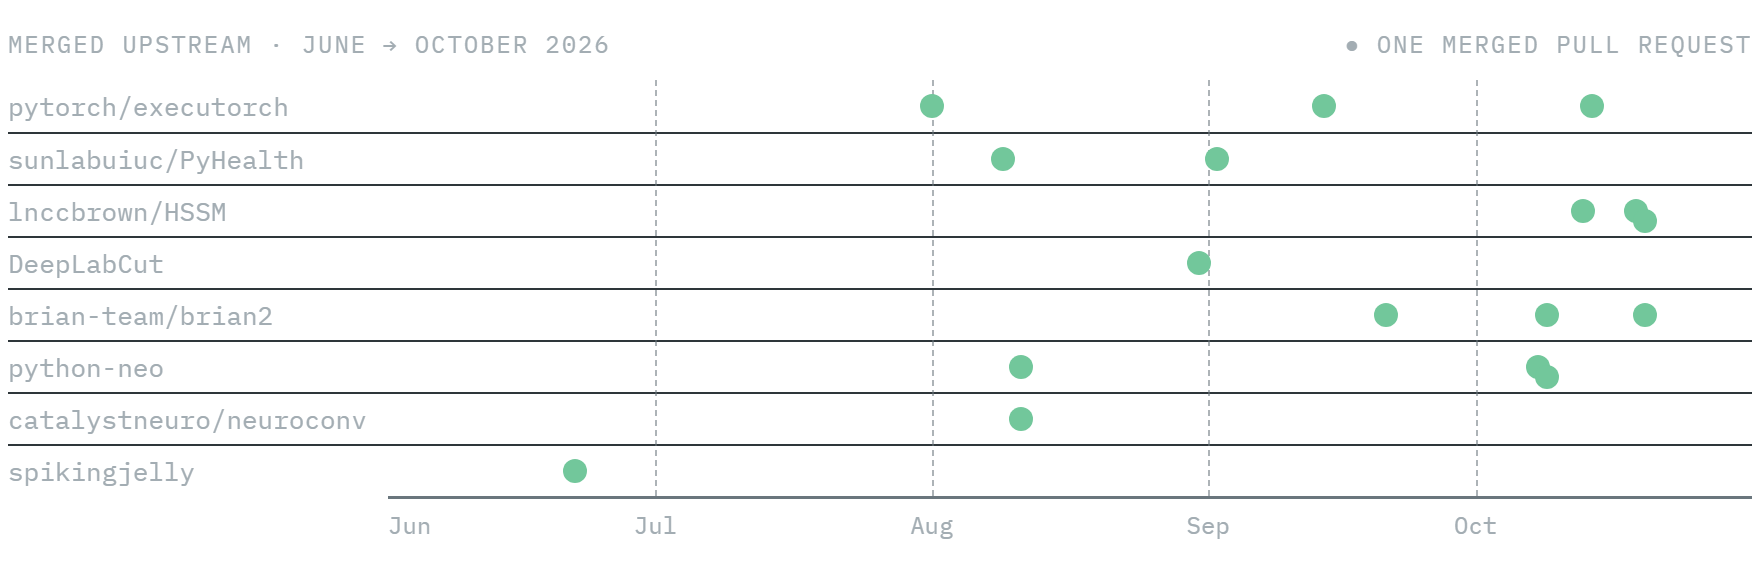
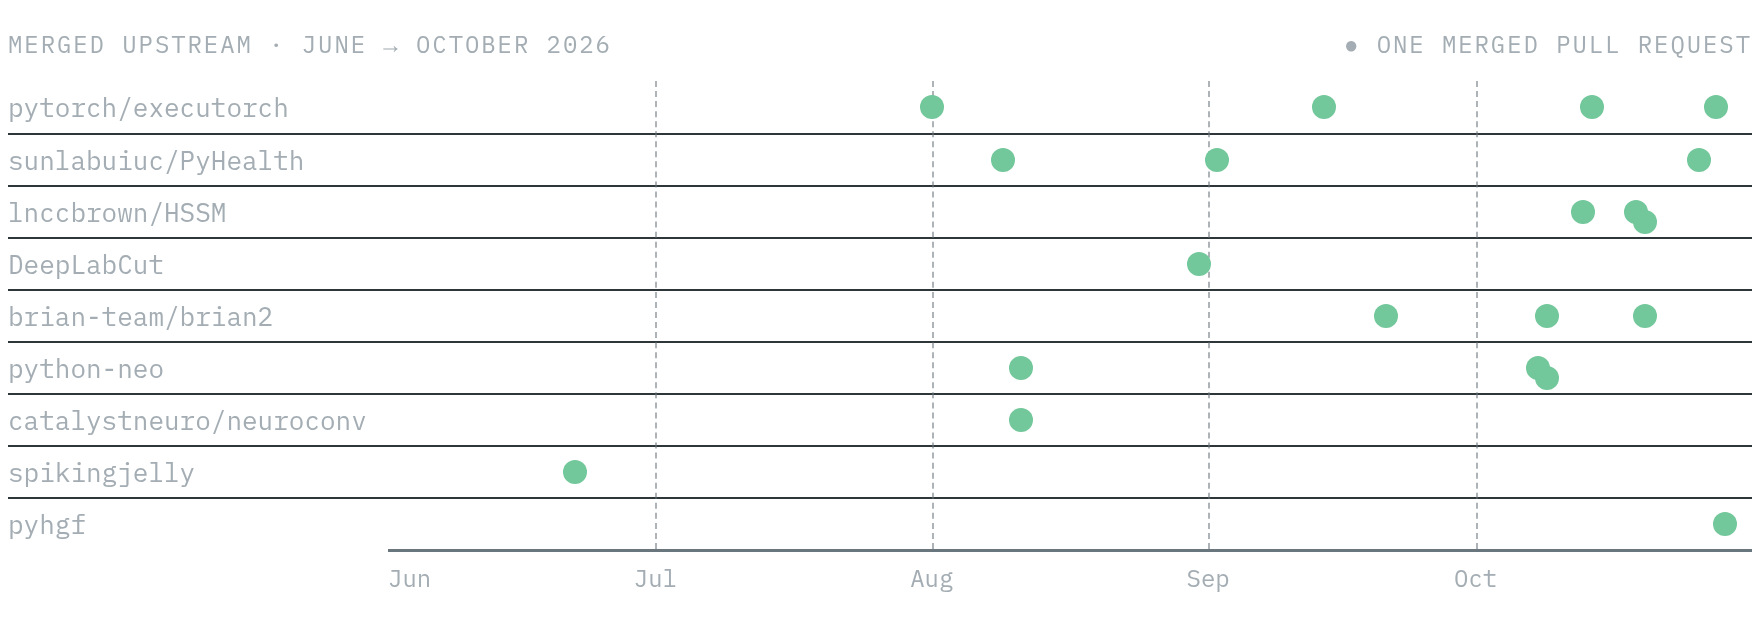
Mettre à jour le profil depuis l'état GitHub

diff --git a/portfolio/index.html b/portfolio/index.html
@@ -196,8 +196,8 @@ footer { margin-top: 48px; padding-top: 18px; border-top: 1px solid var(--rule);
         <span class="where">France (CET) · remote · EN / FR</span>
       </div>
       <div class="facts">
-        <div class="fact"><div class="n"><!--merged-count:start-->17<!--merged-count:end--></div><div class="l">merged pull requests, <!--range-en-dash:start-->June–October 2026<!--range-en-dash:end--></div></div>
-        <div class="fact"><div class="n"><!--project-count:start-->8<!--project-count:end--></div><div class="l">projects with a merged pull request (Meta, UIUC, Brown, EPFL…)</div></div>
+        <div class="fact"><div class="n"><!--merged-count:start-->20<!--merged-count:end--></div><div class="l">merged pull requests, <!--range-en-dash:start-->June–October 2026<!--range-en-dash:end--></div></div>
+        <div class="fact"><div class="n"><!--project-count:start-->9<!--project-count:end--></div><div class="l">projects with a merged pull request (Meta, UIUC, Brown, EPFL…)</div></div>
         <div class="fact"><div class="n">14</div><div class="l">issues filed; 4 with explicit maintainer agreement</div></div>
         <div class="fact"><div class="n">344</div><div class="l">tests in discoursekit, mypy and ruff clean</div></div>
       </div>
@@ -213,7 +213,7 @@ footer { margin-top: 48px; padding-top: 18px; border-top: 1px solid var(--rule);
     <h2 id="en-where">Where I contribute</h2>
     <p class="section-intro">One card per project, newest merge first. Each line links to the pull request, where the review and the maintainers' words are.</p>
     <div class="projects" data-projects="en"></div>
-    <p class="note"><!--open-en:start-->Open and under review: brian2 #1891, ComputationalPsychiatry/pyhgf #448, executorch #23798 (approved), HSSM #1414, huggingface/course #1328, PyHealth #1187, #1202, #1207, python-neo #1913.<!--open-en:end--> Filed: pytorch/pytorch #200949 (<code>grid_sample</code> int16 offset overflow for fp16/bf16, labelled "correctness (silent)"), PCNtoolkit #600, pyhgf #446/#447.</p>
+    <p class="note"><!--open-en:start-->Open and under review: brian2 #1891, HSSM #1414 (approved), huggingface/course #1328, PyHealth #1202, #1207, python-neo #1913.<!--open-en:end--> Filed: pytorch/pytorch #200949 (<code>grid_sample</code> int16 offset overflow for fp16/bf16, labelled "correctness (silent)"), PCNtoolkit #600, pyhgf #446/#447.</p>
 
     <h2 id="en-cases">Contribution stories</h2>
     <p class="section-intro">Six of these contributions told in full, each the same way: what was wrong, what I did, why it was hard, what came out. Links go to the public record.</p>
@@ -381,8 +381,8 @@ footer { margin-top: 48px; padding-top: 18px; border-top: 1px solid var(--rule);
         <span class="where">France · à distance · FR / EN</span>
       </div>
       <div class="facts">
-        <div class="fact"><div class="n"><!--merged-count:start-->17<!--merged-count:end--></div><div class="l">pull requests fusionnées, <!--range-fr-dash:start-->juin–octobre 2026<!--range-fr-dash:end--></div></div>
-        <div class="fact"><div class="n"><!--project-count:start-->8<!--project-count:end--></div><div class="l">projets avec une pull request fusionnée (Meta, UIUC, Brown, EPFL…)</div></div>
+        <div class="fact"><div class="n"><!--merged-count:start-->20<!--merged-count:end--></div><div class="l">pull requests fusionnées, <!--range-fr-dash:start-->juin–octobre 2026<!--range-fr-dash:end--></div></div>
+        <div class="fact"><div class="n"><!--project-count:start-->9<!--project-count:end--></div><div class="l">projets avec une pull request fusionnée (Meta, UIUC, Brown, EPFL…)</div></div>
         <div class="fact"><div class="n">14</div><div class="l">issues ouvertes ; 4 avec accord explicite du mainteneur</div></div>
         <div class="fact"><div class="n">344</div><div class="l">tests dans discoursekit, mypy et ruff propres</div></div>
       </div>
@@ -398,7 +398,7 @@ footer { margin-top: 48px; padding-top: 18px; border-top: 1px solid var(--rule);
     <h2 id="fr-where">Où je contribue</h2>
     <p class="section-intro">Une carte par projet, la fusion la plus récente en premier. Chaque ligne mène à la pull request, où se trouvent la revue et les mots des mainteneurs.</p>
     <div class="projects" data-projects="fr"></div>
-    <p class="note"><!--open-fr:start-->En cours de revue : brian2 #1891, ComputationalPsychiatry/pyhgf #448, executorch #23798 (approuvée), HSSM #1414, huggingface/course #1328, PyHealth #1187, #1202, #1207, python-neo #1913.<!--open-fr:end--> Signalés : pytorch/pytorch #200949 (dépassement d'offset int16 dans <code>grid_sample</code> pour fp16/bf16, étiqueté « correctness (silent) »), PCNtoolkit #600, pyhgf #446/#447.</p>
+    <p class="note"><!--open-fr:start-->En cours de revue : brian2 #1891, HSSM #1414 (approuvée), huggingface/course #1328, PyHealth #1202, #1207, python-neo #1913.<!--open-fr:end--> Signalés : pytorch/pytorch #200949 (dépassement d'offset int16 dans <code>grid_sample</code> pour fp16/bf16, étiqueté « correctness (silent) »), PCNtoolkit #600, pyhgf #446/#447.</p>
 
     <h2 id="fr-cases">Contributions racontées</h2>
     <p class="section-intro">Six de ces contributions racontées en entier, toujours de la même façon : ce qui était faux, ce que j'ai fait, pourquoi c'était difficile, ce qui en est sorti. Les liens mènent au dossier public.</p>
@@ -527,7 +527,7 @@ footer { margin-top: 48px; padding-top: 18px; border-top: 1px solid var(--rule);
 
 <!-- Données générées par visuals/build.py à partir de visuals/data/merged.json et de silent-failures/registry/entries.js : ne pas éditer à la main. -->
 <!--data:start-->
-<script type="application/json" id="merged-data">{"lanes":[{"key":"executorch","label":"pytorch/executorch"},{"key":"pyhealth","label":"sunlabuiuc/PyHealth"},{"key":"hssm","label":"lnccbrown/HSSM"},{"key":"dlc","label":"DeepLabCut"},{"key":"brian2","label":"brian-team/brian2"},{"key":"neo","label":"python-neo"},{"key":"neuroconv","label":"catalystneuro/neuroconv"},{"key":"spikingjelly","label":"spikingjelly"}],"merged":[{"date":"2026-10-20","lane":"hssm","ref":"lnccbrown/HSSM #1415","url":"https://github.com/lnccbrown/HSSM/pull/1415","sf":[],"en":"follow-up to #1411: the test of the balanced-panel check now uses the stable sort it recommends","fr":"suite de #1411 : le test de la validation du panel utilise désormais le tri stable qu'elle recommande"},{"date":"2026-10-20","lane":"brian2","ref":"brian-team/brian2 #1896","url":"https://github.com/brian-team/brian2/pull/1896","sf":["SF-16"],"en":"Cython RNG buffers stored by value in the random state: restore() no longer reads freed memory after a refill; test","fr":"tampons RNG Cython stockés par valeur dans l'état aléatoire : restore() ne lit plus de mémoire libérée après un remplissage ; test"},{"date":"2026-10-19","lane":"hssm","ref":"lnccbrown/HSSM #1411","url":"https://github.com/lnccbrown/HSSM/pull/1411","sf":[],"en":"error message suggested an unstable sort that scrambles each participant's trial order; stable sort suggested, docstrings, tests","fr":"le message d'erreur suggérait un tri non stable qui mélange l'ordre des essais de chaque participant ; tri stable suggéré, docstrings, tests"},{"date":"2026-10-14","lane":"executorch","ref":"pytorch/executorch #22373","url":"https://github.com/pytorch/executorch/pull/22373","sf":["SF-05","SF-06"],"en":"four error guards that could never fire made to raise; tests","fr":"quatre gardes d'erreur qui ne pouvaient jamais se déclencher, rendues effectives ; tests"},{"date":"2026-10-13","lane":"hssm","ref":"lnccbrown/HSSM #1371","url":"https://github.com/lnccbrown/HSSM/pull/1371","sf":["SF-11"],"en":"parameter order permuted between libraries; test over 21 pairs","fr":"ordre des paramètres permuté entre bibliothèques ; test sur 21 paires"},{"date":"2026-10-09","lane":"brian2","ref":"brian-team/brian2 #1885","url":"https://github.com/brian-team/brian2/pull/1885","sf":[],"en":"developer guidelines refresh","fr":"mise à jour des consignes pour les développeurs"},{"date":"2026-10-09","lane":"neo","ref":"python-neo #1911","url":"https://github.com/NeuralEnsemble/python-neo/pull/1911","sf":[],"en":"CI matrix failing weekly since February","fr":"matrice CI en échec chaque semaine depuis février"},{"date":"2026-10-08","lane":"neo","ref":"python-neo #1912","url":"https://github.com/NeuralEnsemble/python-neo/pull/1912","sf":["SF-07"],"en":"CI step green on failure; pipefail + checks","fr":"étape de CI verte sur échec ; pipefail et contrôles"},{"date":"2026-09-21","lane":"brian2","ref":"brian-team/brian2 #1861","url":"https://github.com/brian-team/brian2/pull/1861","sf":[],"en":"conditional gc.collect() in Network.run(); regression test","fr":"gc.collect() conditionnel dans Network.run() ; test de régression"},{"date":"2026-09-14","lane":"executorch","ref":"pytorch/executorch #22372","url":"https://github.com/pytorch/executorch/pull/22372","sf":["SF-08"],"en":"Vulkan quantizer lifted ints as float32; fix + test","fr":"le quantificateur Vulkan promouvait des entiers en float32 ; correctif et test"},{"date":"2026-09-02","lane":"pyhealth","ref":"sunlabuiuc/PyHealth #1203","url":"https://github.com/sunlabuiuc/PyHealth/pull/1203","sf":["SF-02","SF-19","SF-20"],"en":"review + 2 hardening commits on an OMOP leakage fix","fr":"revue et 2 commits de durcissement sur un correctif de fuite OMOP"},{"date":"2026-08-31","lane":"dlc","ref":"DeepLabCut #3445","url":"https://github.com/DeepLabCut/DeepLabCut/pull/3445","sf":["SF-09"],"en":"pandas 3 Copy-on-Write: ten in-place mutations made safe","fr":"pandas 3 Copy-on-Write : dix mutations en place sécurisées"},{"date":"2026-08-11","lane":"neo","ref":"python-neo #1891","url":"https://github.com/NeuralEnsemble/python-neo/pull/1891","sf":[],"en":"CedRawIO vs sonpy ≥ 1.9.12; CED tests re-enabled","fr":"CedRawIO face à sonpy ≥ 1.9.12 ; tests CED réactivés"},{"date":"2026-08-11","lane":"neuroconv","ref":"catalystneuro/neuroconv #1855","url":"https://github.com/catalystneuro/neuroconv/pull/1855","sf":[],"en":"unsatisfiable PEP 508 marker on the spike2 extra","fr":"marqueur PEP 508 insatisfiable sur l'extra spike2"},{"date":"2026-08-09","lane":"pyhealth","ref":"sunlabuiuc/PyHealth #1179","url":"https://github.com/sunlabuiuc/PyHealth/pull/1179","sf":[],"en":"MEDS dataset support, typed Parquet path (+1,526 lines)","fr":"support du standard MEDS, chemin Parquet typé (+1 526 lignes)"},{"date":"2026-08-01","lane":"executorch","ref":"pytorch/executorch #20685","url":"https://github.com/pytorch/executorch/pull/20685","sf":[],"en":"runtime MoE expert-sort for the MLX backend","fr":"tri des experts MoE à l'exécution pour le backend MLX"},{"date":"2026-06-22","lane":"spikingjelly","ref":"spikingjelly #692","url":"https://github.com/fangwei123456/spikingjelly/pull/692","sf":[],"en":"dead assertion on a never-defined attribute","fr":"assertion morte sur un attribut jamais défini"}],"window":{"start":"2026-06","end":"2026-11","en":"June → October 2026","fr":"juin → octobre 2026"}}</script>
+<script type="application/json" id="merged-data">{"lanes":[{"key":"executorch","label":"pytorch/executorch"},{"key":"pyhealth","label":"sunlabuiuc/PyHealth"},{"key":"hssm","label":"lnccbrown/HSSM"},{"key":"dlc","label":"DeepLabCut"},{"key":"brian2","label":"brian-team/brian2"},{"key":"neo","label":"python-neo"},{"key":"neuroconv","label":"catalystneuro/neuroconv"},{"key":"spikingjelly","label":"spikingjelly"},{"key":"pyhgf","label":"pyhgf"}],"merged":[{"date":"2026-10-29","lane":"pyhgf","ref":"ComputationalPsychiatry/pyhgf #448","url":"https://github.com/ComputationalPsychiatry/pyhgf/pull/448","sf":[],"en":"Use all volatility and value children in the unbounded volatility update","fr":"Use all volatility and value children in the unbounded volatility update","auto":true},{"date":"2026-10-28","lane":"executorch","ref":"pytorch/executorch #23798","url":"https://github.com/pytorch/executorch/pull/23798","sf":[],"en":"[muse-glimmer] Fix bf16 positional embedding interpolation on CPU","fr":"[muse-glimmer] Fix bf16 positional embedding interpolation on CPU","auto":true},{"date":"2026-10-26","lane":"pyhealth","ref":"sunlabuiuc/PyHealth #1187","url":"https://github.com/sunlabuiuc/PyHealth/pull/1187","sf":[],"en":"Add PTB-XL dataset support (ECG)","fr":"Add PTB-XL dataset support (ECG)","auto":true},{"date":"2026-10-20","lane":"hssm","ref":"lnccbrown/HSSM #1415","url":"https://github.com/lnccbrown/HSSM/pull/1415","sf":[],"en":"follow-up to #1411: the test of the balanced-panel check now uses the stable sort it recommends","fr":"suite de #1411 : le test de la validation du panel utilise désormais le tri stable qu'elle recommande"},{"date":"2026-10-20","lane":"brian2","ref":"brian-team/brian2 #1896","url":"https://github.com/brian-team/brian2/pull/1896","sf":["SF-16"],"en":"Cython RNG buffers stored by value in the random state: restore() no longer reads freed memory after a refill; test","fr":"tampons RNG Cython stockés par valeur dans l'état aléatoire : restore() ne lit plus de mémoire libérée après un remplissage ; test"},{"date":"2026-10-19","lane":"hssm","ref":"lnccbrown/HSSM #1411","url":"https://github.com/lnccbrown/HSSM/pull/1411","sf":[],"en":"error message suggested an unstable sort that scrambles each participant's trial order; stable sort suggested, docstrings, tests","fr":"le message d'erreur suggérait un tri non stable qui mélange l'ordre des essais de chaque participant ; tri stable suggéré, docstrings, tests"},{"date":"2026-10-14","lane":"executorch","ref":"pytorch/executorch #22373","url":"https://github.com/pytorch/executorch/pull/22373","sf":["SF-05","SF-06"],"en":"four error guards that could never fire made to raise; tests","fr":"quatre gardes d'erreur qui ne pouvaient jamais se déclencher, rendues effectives ; tests"},{"date":"2026-10-13","lane":"hssm","ref":"lnccbrown/HSSM #1371","url":"https://github.com/lnccbrown/HSSM/pull/1371","sf":["SF-11"],"en":"parameter order permuted between libraries; test over 21 pairs","fr":"ordre des paramètres permuté entre bibliothèques ; test sur 21 paires"},{"date":"2026-10-09","lane":"brian2","ref":"brian-team/brian2 #1885","url":"https://github.com/brian-team/brian2/pull/1885","sf":[],"en":"developer guidelines refresh","fr":"mise à jour des consignes pour les développeurs"},{"date":"2026-10-09","lane":"neo","ref":"python-neo #1911","url":"https://github.com/NeuralEnsemble/python-neo/pull/1911","sf":[],"en":"CI matrix failing weekly since February","fr":"matrice CI en échec chaque semaine depuis février"},{"date":"2026-10-08","lane":"neo","ref":"python-neo #1912","url":"https://github.com/NeuralEnsemble/python-neo/pull/1912","sf":["SF-07"],"en":"CI step green on failure; pipefail + checks","fr":"étape de CI verte sur échec ; pipefail et contrôles"},{"date":"2026-09-21","lane":"brian2","ref":"brian-team/brian2 #1861","url":"https://github.com/brian-team/brian2/pull/1861","sf":[],"en":"conditional gc.collect() in Network.run(); regression test","fr":"gc.collect() conditionnel dans Network.run() ; test de régression"},{"date":"2026-09-14","lane":"executorch","ref":"pytorch/executorch #22372","url":"https://github.com/pytorch/executorch/pull/22372","sf":["SF-08"],"en":"Vulkan quantizer lifted ints as float32; fix + test","fr":"le quantificateur Vulkan promouvait des entiers en float32 ; correctif et test"},{"date":"2026-09-02","lane":"pyhealth","ref":"sunlabuiuc/PyHealth #1203","url":"https://github.com/sunlabuiuc/PyHealth/pull/1203","sf":["SF-02","SF-19","SF-20"],"en":"review + 2 hardening commits on an OMOP leakage fix","fr":"revue et 2 commits de durcissement sur un correctif de fuite OMOP"},{"date":"2026-08-31","lane":"dlc","ref":"DeepLabCut #3445","url":"https://github.com/DeepLabCut/DeepLabCut/pull/3445","sf":["SF-09"],"en":"pandas 3 Copy-on-Write: ten in-place mutations made safe","fr":"pandas 3 Copy-on-Write : dix mutations en place sécurisées"},{"date":"2026-08-11","lane":"neo","ref":"python-neo #1891","url":"https://github.com/NeuralEnsemble/python-neo/pull/1891","sf":[],"en":"CedRawIO vs sonpy ≥ 1.9.12; CED tests re-enabled","fr":"CedRawIO face à sonpy ≥ 1.9.12 ; tests CED réactivés"},{"date":"2026-08-11","lane":"neuroconv","ref":"catalystneuro/neuroconv #1855","url":"https://github.com/catalystneuro/neuroconv/pull/1855","sf":[],"en":"unsatisfiable PEP 508 marker on the spike2 extra","fr":"marqueur PEP 508 insatisfiable sur l'extra spike2"},{"date":"2026-08-09","lane":"pyhealth","ref":"sunlabuiuc/PyHealth #1179","url":"https://github.com/sunlabuiuc/PyHealth/pull/1179","sf":[],"en":"MEDS dataset support, typed Parquet path (+1,526 lines)","fr":"support du standard MEDS, chemin Parquet typé (+1 526 lignes)"},{"date":"2026-08-01","lane":"executorch","ref":"pytorch/executorch #20685","url":"https://github.com/pytorch/executorch/pull/20685","sf":[],"en":"runtime MoE expert-sort for the MLX backend","fr":"tri des experts MoE à l'exécution pour le backend MLX"},{"date":"2026-06-22","lane":"spikingjelly","ref":"spikingjelly #692","url":"https://github.com/fangwei123456/spikingjelly/pull/692","sf":[],"en":"dead assertion on a never-defined attribute","fr":"assertion morte sur un attribut jamais défini"}],"window":{"start":"2026-06","end":"2026-11","en":"June → October 2026","fr":"juin → octobre 2026"}}</script>
 <script type="application/json" id="registry-data">[{"id":"SF-01","family":"data","detect":"heuristic","en":"Grouped-entity leakage across splits","fr":"Fuite d'entité groupée entre splits"},{"id":"SF-02","family":"data","detect":"manual","en":"Target information inside the features","fr":"Information de la cible dans les variables"},{"id":"SF-03","family":"data","detect":"manual","en":"Negatives sampled from the evaluation set","fr":"Négatifs tirés du jeu d'évaluation"},{"id":"SF-04","family":"data","detect":"static","en":"Non-injective or unstable cache key","fr":"Clé de cache non injective ou instable"},{"id":"SF-05","family":"control-flow","detect":"static","en":"Assertion that cannot fail","fr":"Assertion qui ne peut pas échouer"},{"id":"SF-06","family":"control-flow","detect":"static","en":"Exception constructed but never raised","fr":"Exception construite mais jamais levée"},{"id":"SF-07","family":"build-ci","detect":"static","en":"CI step that stays green on failure","fr":"Étape de CI verte sur échec"},{"id":"SF-08","family":"numerics","detect":"static","en":"dtype dropped when lifting a scalar","fr":"dtype perdu en promouvant un scalaire"},{"id":"SF-09","family":"data","detect":"static","en":"In-place mutation of a view that may be read-only","fr":"Mutation en place d'une vue potentiellement en lecture seule"},{"id":"SF-10","family":"data","detect":"heuristic","en":"Unseeded randomness on the evaluation path","fr":"Aléa sans graine sur le chemin d'évaluation"},{"id":"SF-11","family":"data","detect":"manual","en":"Parameter order coupled across libraries","fr":"Ordre de paramètres couplé entre bibliothèques"},{"id":"SF-12","family":"concurrency","detect":"static","en":"Shared-memory exchange without a fencing barrier","fr":"Échange en mémoire partagée sans barrière"},{"id":"SF-13","family":"numerics","detect":"heuristic","en":"Fast-math transcendental on an unbounded argument","fr":"Fonction fast-math sur un argument non borné"},{"id":"SF-14","family":"codegen","detect":"manual","en":"Wrong symbol substituted in generated code","fr":"Mauvais symbole substitué dans du code généré"},{"id":"SF-15","family":"codegen","detect":"heuristic","en":"Constant rounded by its printed precision","fr":"Constante arrondie par sa précision d'impression"},{"id":"SF-16","family":"concurrency","detect":"manual","en":"Dangling pointer into a refilled buffer","fr":"Pointeur pendant vers un tampon rempli à nouveau"},{"id":"SF-17","family":"numerics","detect":"manual","en":"Narrow integer offset in a vectorized kernel","fr":"Offset entier étroit dans un kernel vectorisé"},{"id":"SF-18","family":"control-flow","detect":"static","en":"Exception swallowed","fr":"Exception avalée"},{"id":"SF-19","family":"data","detect":"static","en":"Aliased mutable state across samples","fr":"État mutable partagé entre échantillons"},{"id":"SF-20","family":"control-flow","detect":"manual","en":"Test that cannot detect its own regression","fr":"Test incapable de détecter sa régression"}]</script>
 <!--data:end-->
 

diff --git a/README.md b/README.md
@@ -54,18 +54,7 @@ I'm self-taught: oncology, then bioinformatics, then AI for proteins, and now ne
 <!-- live:end -->
 
 <!-- open:start -->
-**In review right now (19):**
-
-- [spikeinterface #4921](https://github.com/SpikeInterface/spikeinterface/pull/4921) Fix `select_periods` dropping metadata, recording, times and empty segments
-- [spikeinterface #4922](https://github.com/SpikeInterface/spikeinterface/pull/4922) Fix saving a recording when only some segments have a `t_start`
-- [spikeinterface #4923](https://github.com/SpikeInterface/spikeinterface/pull/4923) Fix binary save when only some segments have a time vector
-- [PCNtoolkit #623](https://github.com/predictive-clinical-neuroscience/PCNtoolkit/pull/623) fix: score compare_hbr_models on the fit data
-- [HSSM #1455](https://github.com/lnccbrown/HSSM/pull/1455) fix(hssm): reorder fixed-vector parameters with the rows _rearrange_data moves
-- [HSSM #1454](https://github.com/lnccbrown/HSSM/pull/1454) fix(rldm): give the angle LAN -1/1 choices for 0/1 responses
-- [HSSM #1450](https://github.com/lnccbrown/HSSM/pull/1450) fix(utils): find missing-RT rows by the rt column in _rearrange_data
-- [ssm-simulators #417](https://github.com/lnccbrown/ssm-simulators/pull/417) Fix racing_diffusion_model stopping rule on same-step crossings
-
-[… and 11 more](https://github.com/search?q=is%3Apr+author%3AAxelNoun+is%3Aopen+-user%3AAxelNoun&type=pullrequests)
+Open and under review: [brian2 #1891](https://github.com/brian-team/brian2/pull/1891) (Cython Binomial sampler wrong for p > 0.5 and non-terminating on underflow), [HSSM #1414](https://github.com/lnccbrown/HSSM/pull/1414) (approved), [huggingface/course #1328](https://github.com/huggingface/course/pull/1328), [PyHealth #1202](https://github.com/sunlabuiuc/PyHealth/pull/1202) (knowledge-graph embeddings on the 2.0 pipeline, negatives drawn from training triples only), [PyHealth #1207](https://github.com/sunlabuiuc/PyHealth/pull/1207) (deterministic, collision-free task cache keys), [python-neo #1913](https://github.com/NeuralEnsemble/python-neo/pull/1913).
 <!-- open:end -->
 
 ### Where my code is merged
@@ -87,37 +76,33 @@ I'm self-taught: oncology, then bioinformatics, then AI for proteins, and now ne
 <br>
 
 <!-- merged:start -->
-| Project | PR | What it does |
-|:--|:--|:--|
-| ExecuTorch | [#20685](https://github.com/pytorch/executorch/pull/20685) | MLX backend: runtime MoE expert-sort for the decode path |
-| ExecuTorch | [#22372](https://github.com/pytorch/executorch/pull/22372) | Vulkan quantizer: preserve node output dtype when lifting scalars to attributes |
-| ExecuTorch | [#22373](https://github.com/pytorch/executorch/pull/22373) | Make inoperative error guards raise (ExportSession, XNNPACK node visitor, Samsung conv1d) |
-| ExecuTorch | [#23798](https://github.com/pytorch/executorch/pull/23798) | Fix bf16 positional-embedding interpolation on CPU |
-| ExecuTorch | [#24203](https://github.com/pytorch/executorch/pull/24203) | Enforce per-dimension upper bounds for `DYNAMIC_BOUND` inputs in `set_input` |
-| ExecuTorch | [#24202](https://github.com/pytorch/executorch/pull/24202) | Raise `InternalError` for non-CPU constant storage in the emitter |
-| pyhgf | [#451](https://github.com/ComputationalPsychiatry/pyhgf/pull/451) | Fix the batched weight gradient of binary layers in `rshgf.DeepNetwork` |
-| pyhgf | [#450](https://github.com/ComputationalPsychiatry/pyhgf/pull/450) | Fix `add_edges` dropping value children, ignoring `coupling_fn` and mismatching coupling strengths |
-| pyhgf | [#449](https://github.com/ComputationalPsychiatry/pyhgf/pull/449) | Fix `remove_node` on nodes with several edges |
-| pyhgf | [#448](https://github.com/ComputationalPsychiatry/pyhgf/pull/448) | Use all volatility and value children in the unbounded volatility update |
-| Brian2 | [#1861](https://github.com/brian-team/brian2/pull/1861) | Skip `gc.collect()` in `Network.run()` when unused-object warnings are disabled |
-| Brian2 | [#1885](https://github.com/brian-team/brian2/pull/1885) | Developer guidelines: drop ruff-enforced rules, fix stale references |
-| Brian2 | [#1896](https://github.com/brian-team/brian2/pull/1896) | Store Cython random-number buffers by value, fixing restore after a buffer refill |
-| HSSM | [#1371](https://github.com/lnccbrown/HSSM/pull/1371) | Align `racing_diffusion_3` parameter order with ssm-simulators |
-| HSSM | [#1411](https://github.com/lnccbrown/HSSM/pull/1411) | Suggest a stable sort in the balanced-panel error message |
-| HSSM | [#1415](https://github.com/lnccbrown/HSSM/pull/1415) | Use a stable sort in `test_sorted_data_passes` |
-| python-neo | [#1891](https://github.com/NeuralEnsemble/python-neo/pull/1891) | Restore CED/Spike2 reading under sonpy ≥ 1.9.12, re-enable its tests |
-| python-neo | [#1911](https://github.com/NeuralEnsemble/python-neo/pull/1911) | CI: drop Python 3.9 from the `NeoPlexon2Test` matrix |
-| python-neo | [#1912](https://github.com/NeuralEnsemble/python-neo/pull/1912) | CI step no longer stays green when `git ls-remote` fails |
-| PyHealth | [#1179](https://github.com/sunlabuiuc/PyHealth/pull/1179) | MEDS dataset support with a typed Parquet scan path |
-| PyHealth | [#1187](https://github.com/sunlabuiuc/PyHealth/pull/1187) | PTB-XL ECG dataset support |
-| PyHealth | [#1344](https://github.com/sunlabuiuc/PyHealth/pull/1344) | Normalise URL paths with `posixpath` in `clean_path` |
-| SpikingJelly | [#692](https://github.com/fangwei123456/spikingjelly/pull/692) | Fix `LIAFNode` initialisation (closes #655) |
-| SpikingJelly | [#808](https://github.com/fangwei123456/spikingjelly/pull/808) | Fix empty intervals and boundary rounding in time-based frame splitting |
-| SpikingJelly | [#809](https://github.com/fangwei123456/spikingjelly/pull/809) | Download the SSC archives in `SpikingSpeechCommands` |
-| NeuroConv | [#1855](https://github.com/catalystneuro/neuroconv/pull/1855) | Fix an unsatisfiable Spike2 dependency marker |
-| DeepLabCut | [#3445](https://github.com/DeepLabCut/DeepLabCut/pull/3445) | pandas 3 Copy-on-Write guards across eight modules |
+<picture>
+  <source media="(prefers-color-scheme: dark)" srcset="assets/merged-dark.png">
+  <img alt="Timeline of the merge dates of the pull requests listed below, one row per project, June to October 2026." src="assets/merged-light.png" width="100%">
+</picture>
 
-Always up to date: [every merged PR outside my own repos](https://github.com/search?q=is%3Apr+author%3AAxelNoun+is%3Amerged+-user%3AAxelNoun&type=pullrequests).
+| Project | What I fixed or built | Maintainer's words |
+|---|---|---|
+| [pytorch/executorch #20685](https://github.com/pytorch/executorch/pull/20685) | Runtime MoE expert-sort for the MLX backend: two custom ops, a wire-compatible FlatBuffer field, C++ interpreter changes, a serialization fix, and a stride bug traced into Apple's MLX `matmul.cpp` | "Tested locally. Improves Qwen3.5 perf from 73 tok/sec to 80 tok/sec. Great job!" |
+| [pytorch/executorch #22372](https://github.com/pytorch/executorch/pull/22372) | Vulkan quantizer lifted integer scalars as float32 and broke integer indexing; fix + test + Buck target | merged, no changes requested |
+| [pytorch/executorch #22373](https://github.com/pytorch/executorch/pull/22373) | Four error guards that could never fire (unraised exceptions, always-true `assert`) made to actually raise; tests | merged |
+| [pytorch/executorch #23798](https://github.com/pytorch/executorch/pull/23798) | [muse-glimmer] Fix bf16 positional embedding interpolation on CPU | merged |
+| [sunlabuiuc/PyHealth #1179](https://github.com/sunlabuiuc/PyHealth/pull/1179) | MEDS (Medical Event Data Standard) dataset support: typed Parquet scan path, schema guard, tests, docs, MIMIC-IV demo (+1,526 lines) | "lgtm" |
+| [sunlabuiuc/PyHealth #1203](https://github.com/sunlabuiuc/PyHealth/pull/1203) | External review of an OMOP drug-recommendation task: found a self-leakage bug and a fixture that could not detect the regression it targeted; two hardening commits integrated | author merged my commits |
+| [sunlabuiuc/PyHealth #1187](https://github.com/sunlabuiuc/PyHealth/pull/1187) | Add PTB-XL dataset support (ECG) | merged |
+| [lnccbrown/HSSM #1371](https://github.com/lnccbrown/HSSM/pull/1371) | Parameter order permuted between HSSM and ssm-simulators: fits were fine, predictive draws silently wrong; fix + test over 21 model/likelihood pairs | "Looks good, and thanks for catching the issue." |
+| [lnccbrown/HSSM #1411](https://github.com/lnccbrown/HSSM/pull/1411) | The balanced-panel error message suggested `sort_values('participant_id')`, an unstable sort that scrambles each participant's trial order (which the RL likelihood reads) and still passes validation; stable sort suggested, docstrings, tests | "…this is a real bug and a clean fix." |
+| [lnccbrown/HSSM #1415](https://github.com/lnccbrown/HSSM/pull/1415) | Follow-up to #1411 from the maintainer's review: the test of the balanced-panel check sorted with the default (unstable) sort that #1410 warns against; it now uses `kind="stable"` | "lgtm! thanks @AxelNoun" |
+| [DeepLabCut #3445](https://github.com/DeepLabCut/DeepLabCut/pull/3445) | pandas 3 Copy-on-Write: ten in-place mutations on read-only arrays made safe across eight modules | "definitely correct and very helpful!" |
+| [brian-team/brian2 #1861](https://github.com/brian-team/brian2/pull/1861) | ~80 ms `gc.collect()` per `Network.run()` skipped when the warning it served is disabled; regression test | "This makes perfect sense to me, and everything looks good." |
+| [brian-team/brian2 #1885](https://github.com/brian-team/brian2/pull/1885) | Developer guidelines refresh (scope I proposed in #1827/#1829) | "Thanks, LGTM!" |
+| [brian-team/brian2 #1896](https://github.com/brian-team/brian2/pull/1896) | Dangling pointer diagnosed in #1893: the random state now stores the Cython random-number buffers by value instead of the address of a buffer freed on refill, so `restore()` no longer reads freed memory; older stored states handled with a warning; test | "Thanks, LGTM!" |
+| [NeuralEnsemble/python-neo #1891](https://github.com/NeuralEnsemble/python-neo/pull/1891) | `CedRawIO` broken by sonpy ≥ 1.9.12 (three import layouts by version and platform); CED tests re-enabled; test extra fixed | "Looks great. Thanks." — added to the neo 0.14.6 author list |
+| [NeuralEnsemble/python-neo #1912](https://github.com/NeuralEnsemble/python-neo/pull/1912) | CI step stayed green when `git ls-remote` failed (exit status of `echo`); `pipefail`, emptiness check, error annotation; backed by log counts | approved by two maintainers |
+| [NeuralEnsemble/python-neo #1911](https://github.com/NeuralEnsemble/python-neo/pull/1911) | Python 3.9 dropped from a matrix that had failed weekly since February | approved |
+| [catalystneuro/neuroconv #1855](https://github.com/catalystneuro/neuroconv/pull/1855) | `spike2` extra had a PEP 508 marker that could never be satisfied; platform-aware test | "This is ready to go" |
+| [fangwei123456/spikingjelly #692](https://github.com/fangwei123456/spikingjelly/pull/692) | Dead assertion on an attribute never defined in the repository's history | merged |
+| [ComputationalPsychiatry/pyhgf #448](https://github.com/ComputationalPsychiatry/pyhgf/pull/448) | Use all volatility and value children in the unbounded volatility update | merged |
 <!-- merged:end -->
 </details>
 
@@ -138,12 +123,10 @@ My own repositories say what has been validated and what hasn't. A clean negativ
 <p align="center"><a href="https://github.com/AxelNoun/kinoscope"><img src="assets/card-kinoscope-dark.svg" width="49%" alt="KinoScope: kinase-inhibitor affinity prediction under a leakage-free evaluation protocol"></a>&nbsp;<a href="https://github.com/AxelNoun/discoursekit"><img src="assets/card-discoursekit-dark.svg" width="49%" alt="discoursekit: linguistic measures for discourse research"></a></p>
 
 <!-- projects:start -->
-| Repository | What it is | Live status |
-|:--|:--|:--|
-| [**neurovis3d**](https://github.com/AxelNoun/neurovis3d) | diagnostics for spiking neural networks (snnTorch) | ![CI](https://img.shields.io/github/actions/workflow/status/AxelNoun/neurovis3d/ci-public-readiness.yml?branch=main&label=CI&style=flat-square&labelColor=161B22) ![last commit](https://img.shields.io/github/last-commit/AxelNoun/neurovis3d?label=last%20commit&style=flat-square&color=21918C&labelColor=161B22) ![stars](https://img.shields.io/github/stars/AxelNoun/neurovis3d?style=flat-square&color=35B779&labelColor=161B22) |
-| [**tpl-lab**](https://github.com/AxelNoun/tpl-lab) | pre-registered falsification test on Allen Neuropixels data | ![CI](https://img.shields.io/github/actions/workflow/status/AxelNoun/tpl-lab/tests.yml?branch=master&label=CI&style=flat-square&labelColor=161B22) ![last commit](https://img.shields.io/github/last-commit/AxelNoun/tpl-lab?label=last%20commit&style=flat-square&color=21918C&labelColor=161B22) ![stars](https://img.shields.io/github/stars/AxelNoun/tpl-lab?style=flat-square&color=35B779&labelColor=161B22) ![release](https://img.shields.io/github/v/release/AxelNoun/tpl-lab?style=flat-square&color=FDE725&labelColor=161B22) |
-| [**kinoscope**](https://github.com/AxelNoun/kinoscope) | kinase-inhibitor affinity, leakage-free evaluation | ![CI](https://img.shields.io/github/actions/workflow/status/AxelNoun/kinoscope/ci.yml?branch=main&label=CI&style=flat-square&labelColor=161B22) ![last commit](https://img.shields.io/github/last-commit/AxelNoun/kinoscope?label=last%20commit&style=flat-square&color=21918C&labelColor=161B22) ![stars](https://img.shields.io/github/stars/AxelNoun/kinoscope?style=flat-square&color=35B779&labelColor=161B22) |
-| [**discoursekit**](https://github.com/AxelNoun/discoursekit) | linguistic measures for discourse research | ![CI](https://img.shields.io/github/actions/workflow/status/AxelNoun/discoursekit/tests.yml?branch=main&label=CI&style=flat-square&labelColor=161B22) ![last commit](https://img.shields.io/github/last-commit/AxelNoun/discoursekit?label=last%20commit&style=flat-square&color=21918C&labelColor=161B22) ![stars](https://img.shields.io/github/stars/AxelNoun/discoursekit?style=flat-square&color=35B779&labelColor=161B22) |
+- [discoursekit](https://github.com/AxelNoun/discoursekit) — linguistic measures for discourse research; UAX #29 tokenizer that passes the official conformance test, MATTR, embedding-based coherence, permutation-test segmentation. 344 tests, `ruff` and `mypy` clean, doctests run as tests.
+- [kinoscope](https://github.com/AxelNoun/kinoscope) — kinase–inhibitor affinity prediction under a leakage-free, four-regime evaluation protocol (random, cold-drug, cold-target, temporal) with an automated leakage audit in CI and Hypothesis property tests. No model trained yet; the README says so.
+- [tpl-lab](https://github.com/AxelNoun/tpl-lab) — a pre-registered falsification test of a geometric conjecture on Allen Neuropixels recordings; decision rule frozen before the data; 12/12 refuted. Latest release: [v0.1.0](https://github.com/AxelNoun/tpl-lab/releases/tag/v0.1.0).
+- [neurovis3d](https://github.com/AxelNoun/neurovis3d) — diagnostics for spiking neural networks (snnTorch): dead-neuron ratio, sparsity, temporal gradient signature. Work in progress; indicators not yet validated against analytical ground truth.
 <!-- projects:end -->
 
 <p align="center"><img src="assets/axon-dark.svg" width="100%" alt=""></p>
